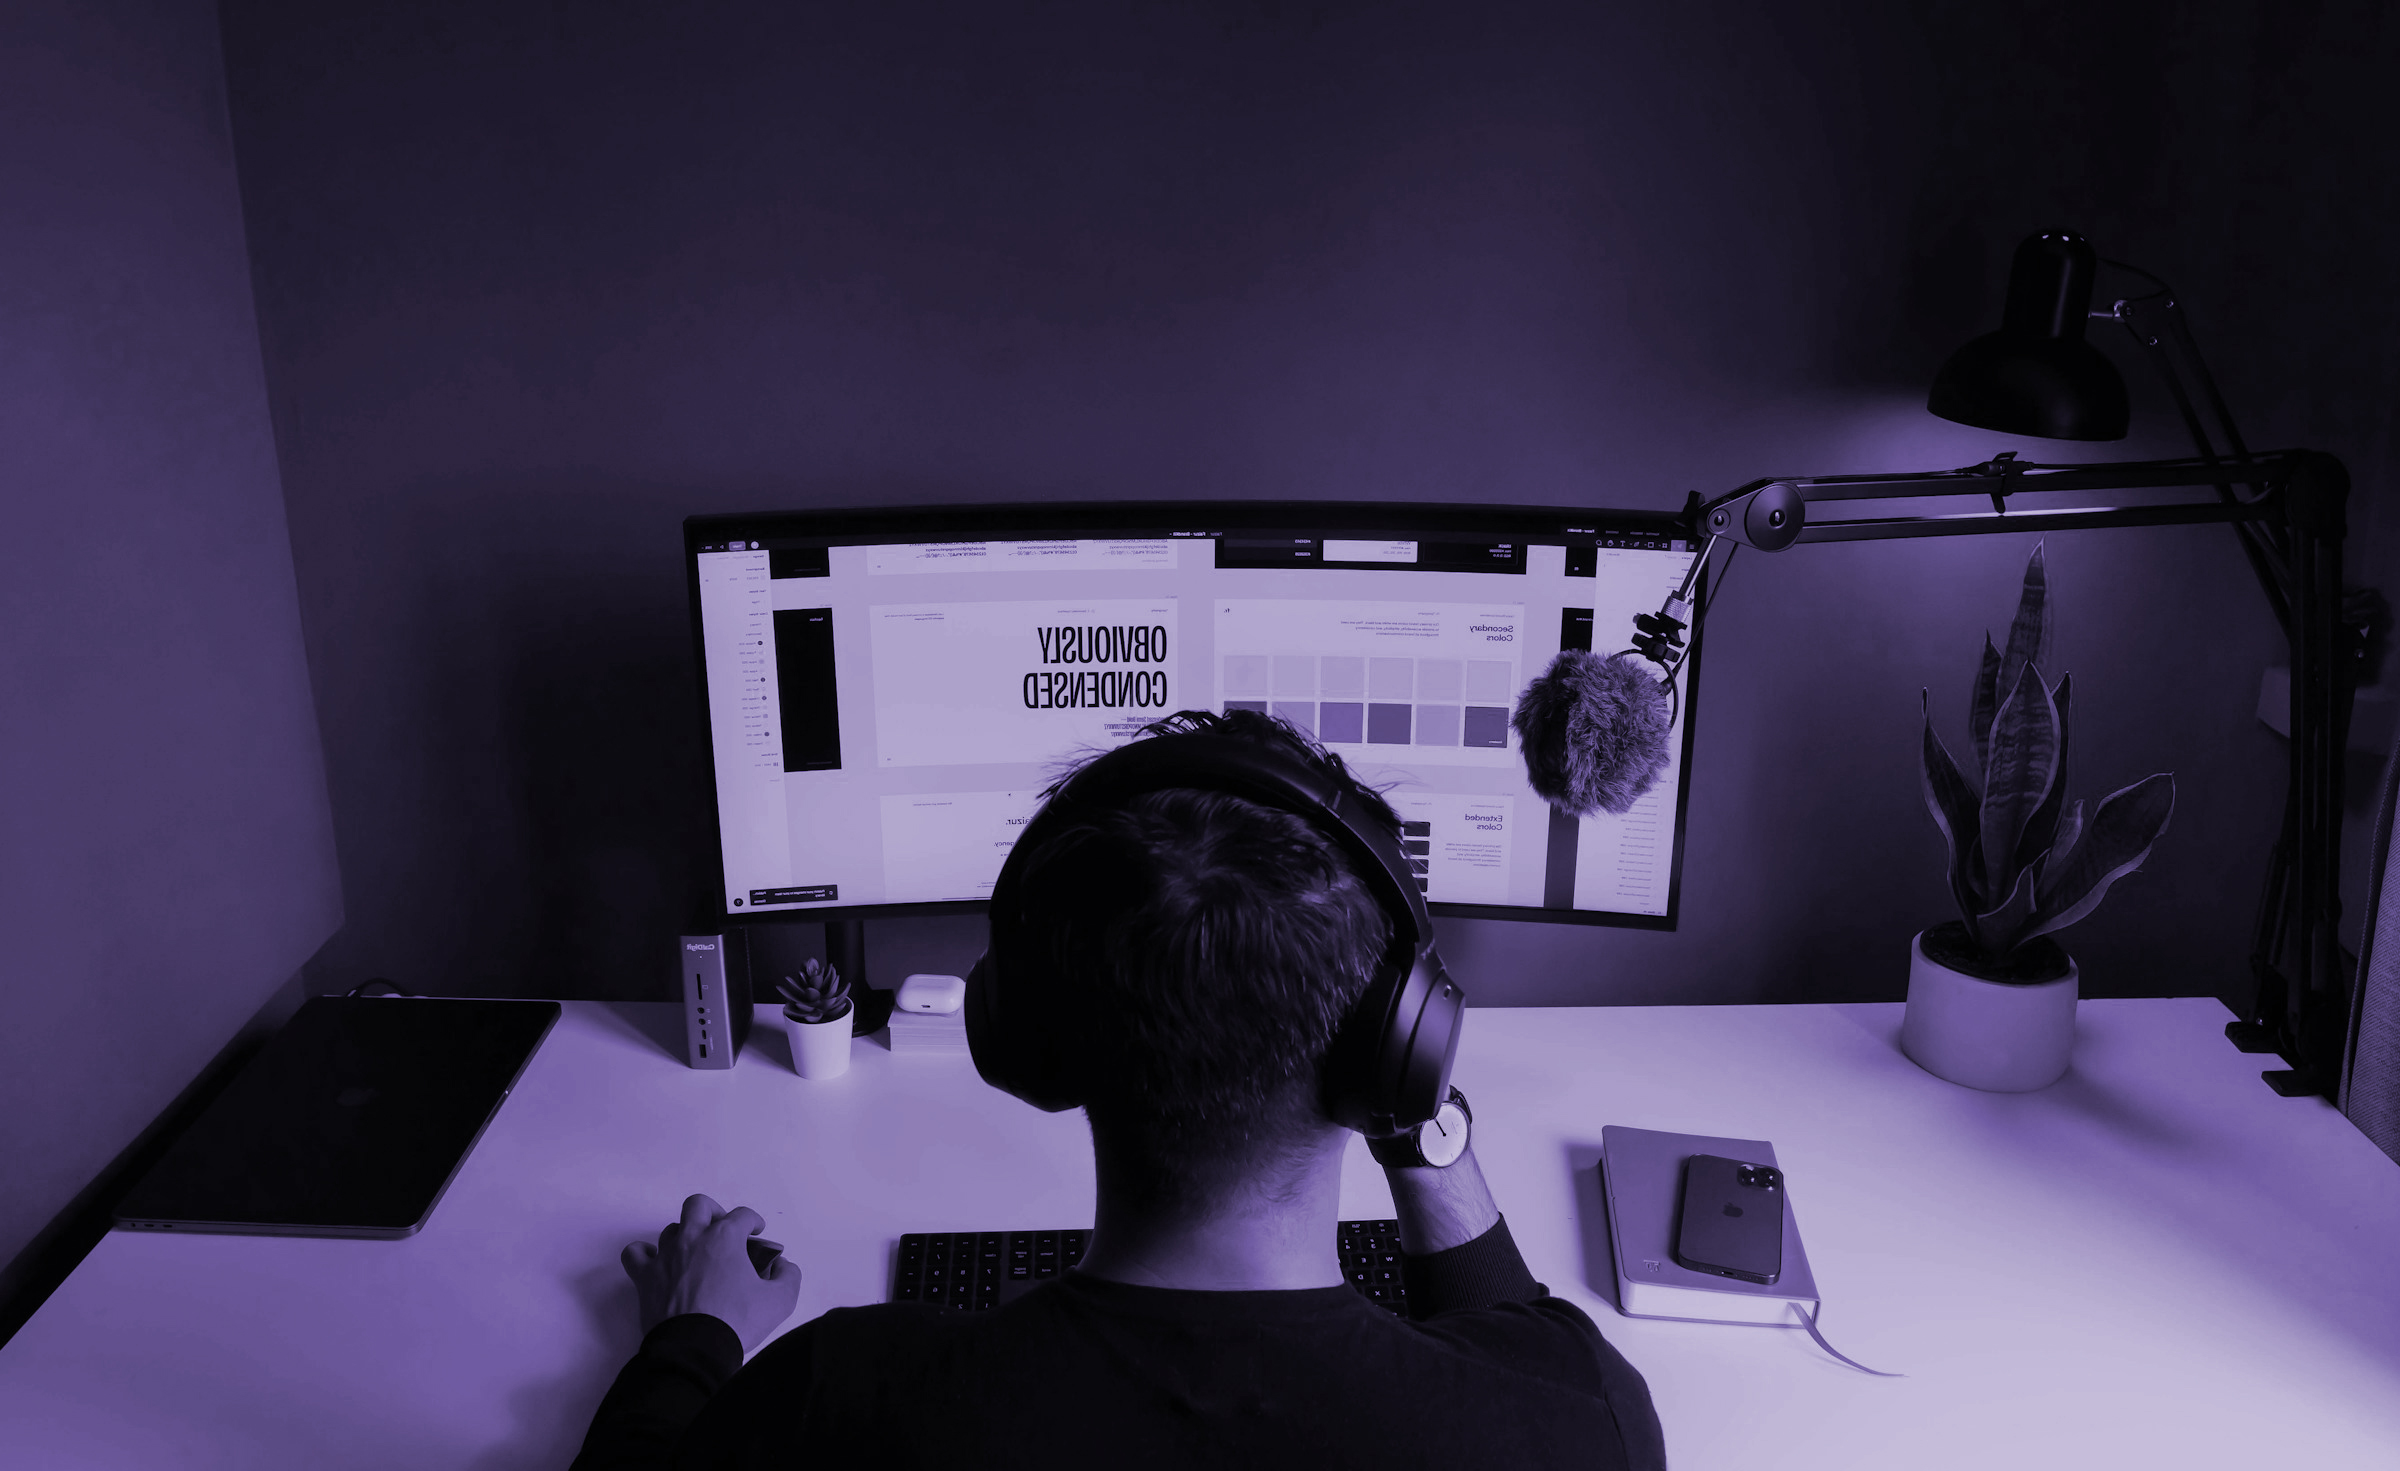
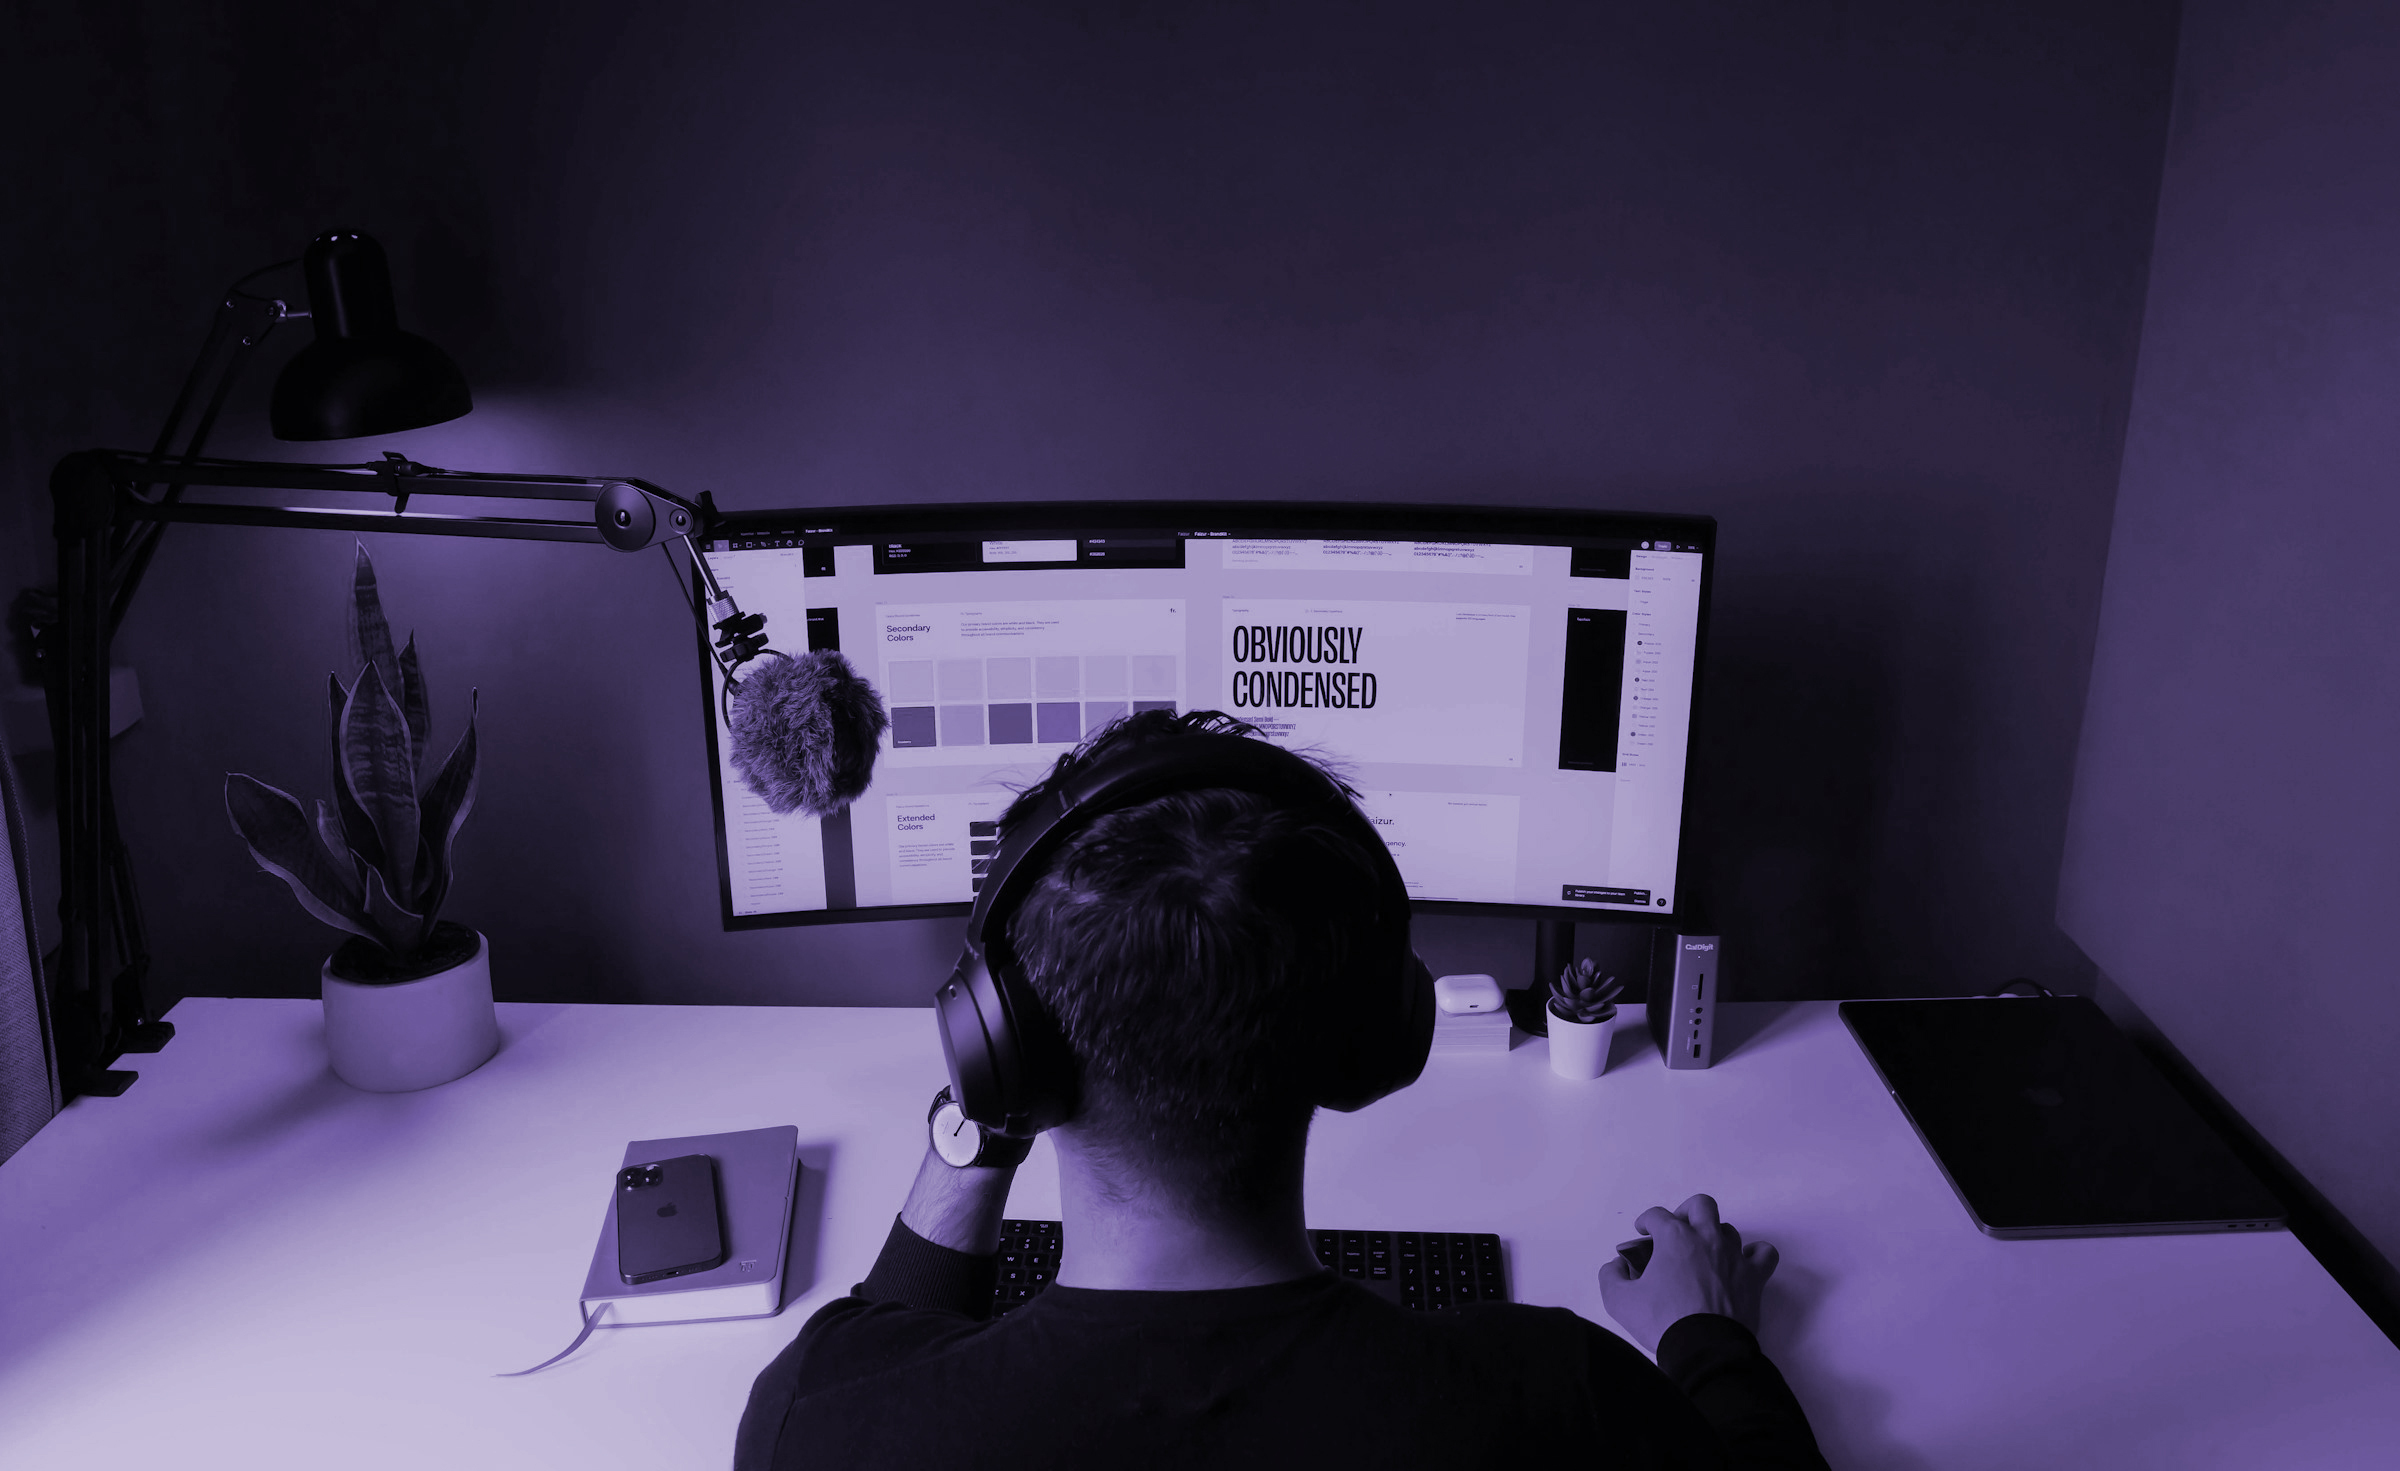
feat:доделал секцию о нас

diff --git a/src/data/categories.ts b/src/data/categories.ts
@@ -1,15 +1,9 @@
-import type { CategoryVariant } from "../components/ui/CategoryCard.astro";
+import type { Category } from "../components/ui/CategoryCard.astro";
 
 import theatre from "../assets/categories-bg/theatre.jpg";
 import music from "../assets/categories-bg/music.jpg";
 import designers from "../assets/categories-bg/designers.jpg";
 import blogers from "../assets/categories-bg/blogers.jpg";
-
-type Category = {
-  variant: CategoryVariant;
-  image: string;
-  title: string;
-};
 
 export const categories: Category[] = [
   {
@@ -25,11 +19,11 @@ export const categories: Category[] = [
   {
     variant: "designers",
     image: designers.src,
-    title: "Дизайнеры и художники",
+    title: ["Дизайнеры", "и художники"],
   },
   {
     variant: "blogers",
     image: blogers.src,
-    title: "Блоггеры и подкасты",
+    title: ["Блоггеры", "и подкасты"],
   },
 ];

diff --git a/src/styles/theme.css b/src/styles/theme.css
@@ -5,6 +5,7 @@
   --color-dark-pulse: #ab2eb2;
   --color-badge: #e2a188;
   --color-lilac: #8b7cff;
+  --color-dark-lilac: #5042b6;
   --color-light-100: #fff;
   --color-nephritis-120: #21aa58;
 
